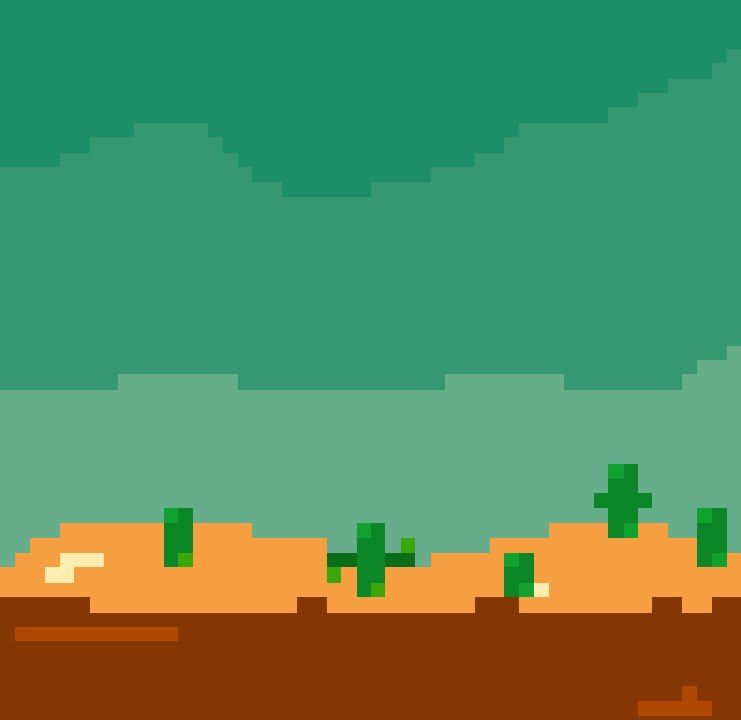
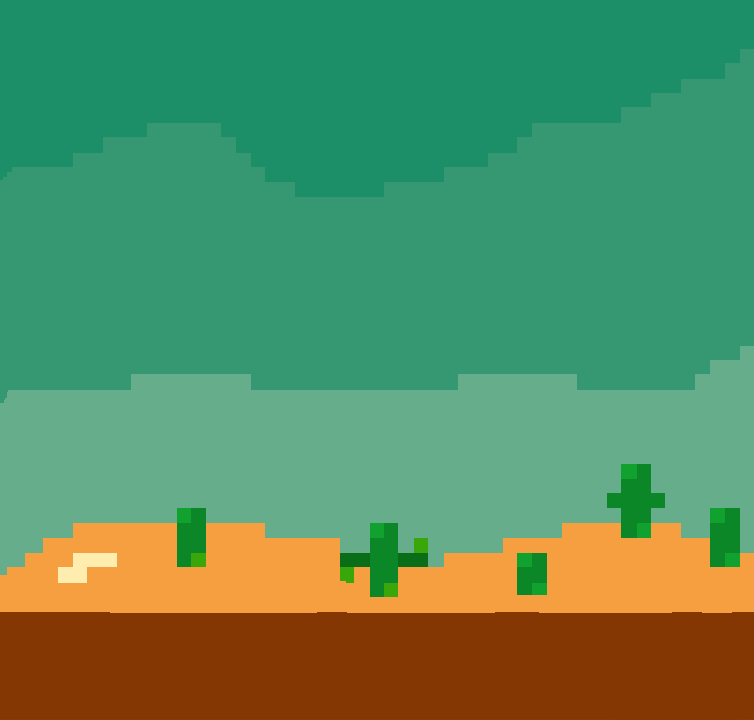
fix clipping issue

diff --git a/fox-frenzy/main.py b/fox-frenzy/main.py
@@ -11,10 +11,12 @@ background_img = pygame.image.load('assets/background.png')
 fox_1 = pygame.image.load('assets/fox1.png')
 fox_2 = pygame.image.load('assets/fox2.png')
 cactus_img = pygame.image.load('assets/cactus.png')
+floor_img = pygame.image.load('assets/floor.png')
 
 #vars
 start = True
 run = False
+score = 0
 
 #const
 WIDTH, HEIGHT = title_screen_img.get_width(), title_screen_img.get_height()
@@ -95,7 +97,23 @@ class Cactus:
             self.x = WIDTH
         self.rect = pygame.Rect(self.x, self.y, self.width, self.height)
 
-
+class ScrollingSurface:
+    def __init__(self, x, y, img):
+        self.x = x
+        self.y = y
+        self.img = img
+        self.width = self.img.get_width()
+        self.height = self.img.get_height()
+        self.rect = pygame.Rect(self.x, self.y, self.width, self.height)
+        
+    def draw(self):
+        screen.blit(self.img, (self.x, self.y))
+        
+    def move(self):
+        self.x -= 10
+        if self.x < 0 - self.width:
+            self.x = WIDTH
+        self.rect = pygame.Rect(self.x, self.y, self.width, self.height)
             
 #title screen
 play = font.render(f'Press Enter to Play', True, (0, 0, 0))
@@ -122,8 +140,10 @@ while start:
     pygame.display.update()
 
 #objects
-player = Player(50, HEIGHT - 700, [fox_1, fox_2])
+player = Player(50, HEIGHT - 200, [fox_1, fox_2])
 cactus = Cactus(WIDTH, HEIGHT - 250, cactus_img)
+floor1 = ScrollingSurface(0, HEIGHT - floor_img.get_height(), floor_img)
+floor2 = ScrollingSurface(WIDTH, HEIGHT - floor_img.get_height(), floor_img)
 
 # game loop
 while run:
@@ -131,15 +151,24 @@ while run:
     for event in pygame.event.get():
         if event.type == pygame.QUIT:
             run = False
-            
+    
+    #score
+    
     #draw screen
+    screen.fill((0,206,209))
     screen.blit(background_img, (0, 0))
-    player.draw()
+    floor1.draw()
+    floor2.draw()
     cactus.draw()
+    player.draw()
+
     
     #move screen
     player.move(pygame.key.get_pressed())
+    floor1.move()
+    floor2.move()
     cactus.move()
+
     
     #update
     clock.tick(FPS)
